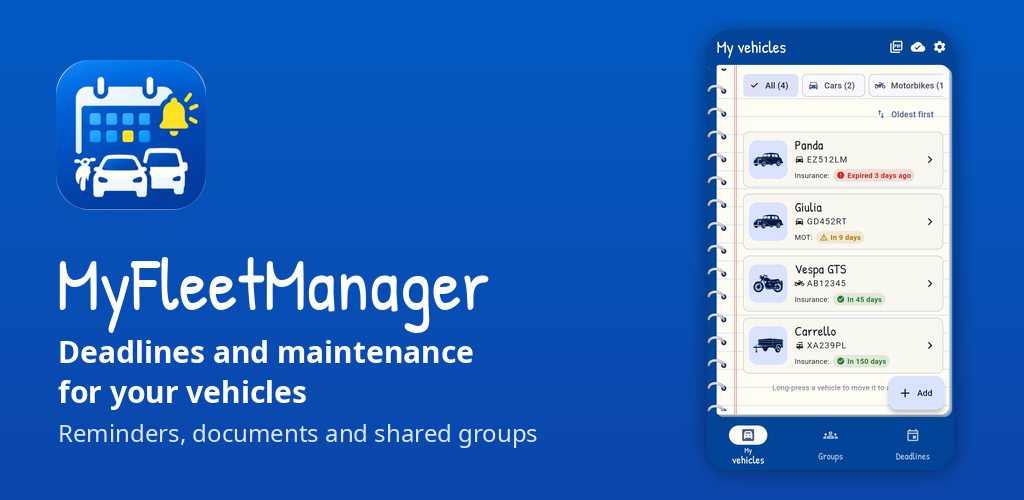
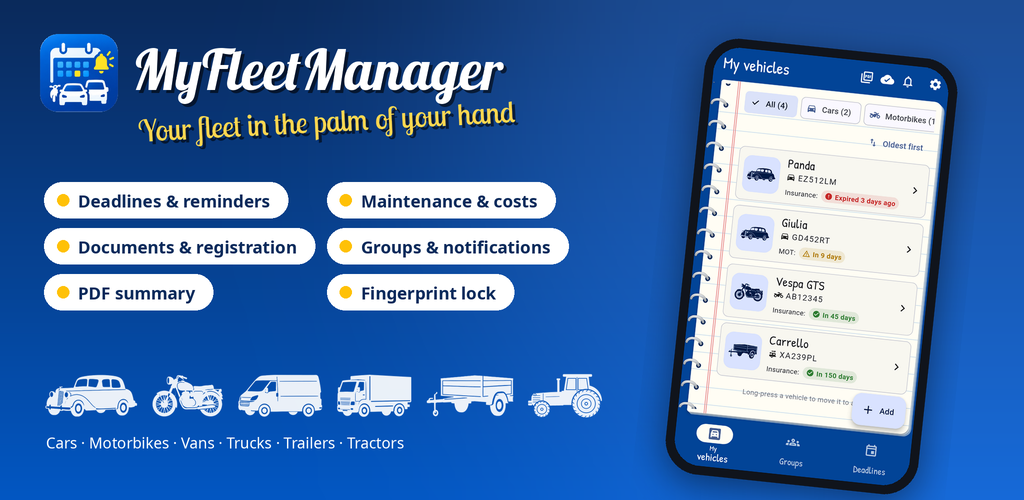
MyFleetManager 2.1.15 (+51): pubblicità AdMob nella versione gratuita, librerie Firebase senza SafetyNet, foto più leggere, selezione del testo, immagine in primo piano e scheda Store aggiornate, app-ads.txt
Claude-Session: https://claude.ai/code/session_01E5Mc5Y1Fn11ySByqYRH4WT

diff --git a/lib/version.dart b/lib/version.dart
@@ -1,1 +1,1 @@
-const String appVersion = '2.1.14';
+const String appVersion = '2.1.15';

diff --git a/tool/store/genera_feature.py b/tool/store/genera_feature.py
@@ -1,0 +1,148 @@
+import pathlib
+
+from PIL import Image, ImageDraw, ImageFilter, ImageFont
+
+ROOT = pathlib.Path(__file__).resolve().parents[2]
+FONTS = ROOT / "assets" / "fonts"
+OUT = ROOT / "tool" / "store"
+K = 2
+W, H = 1024 * K, 500 * K
+
+TEXT = {
+    "it": {
+        "slogan": "La tua flotta nel palmo della mano",
+        "features": [
+            "Scadenze e promemoria",
+            "Manutenzioni e costi",
+            "Documenti e libretto",
+            "Gruppi e notifiche",
+            "Riepilogo PDF",
+            "Blocco con impronta",
+        ],
+        "types": "Auto · Moto · Furgoni · Camion · Rimorchi · Agricoli",
+    },
+    "en": {
+        "slogan": "Your fleet in the palm of your hand",
+        "features": [
+            "Deadlines & reminders",
+            "Maintenance & costs",
+            "Documents & registration",
+            "Groups & notifications",
+            "PDF summary",
+            "Fingerprint lock",
+        ],
+        "types": "Cars · Motorbikes · Vans · Trucks · Trailers · Tractors",
+    },
+}
+
+
+def font(name, size):
+    return ImageFont.truetype(str(FONTS / name), size * K)
+
+
+def gradient():
+    top, bottom = (11, 42, 91), (2, 87, 195)
+    im = Image.new("RGB", (W, H))
+    d = ImageDraw.Draw(im)
+    for y in range(H):
+        t = y / H
+        d.line([(0, y), (W, y)], fill=tuple(int(a + (b - a) * t) for a, b in zip(top, bottom)))
+    glow = Image.new("L", (W, H), 0)
+    ImageDraw.Draw(glow).ellipse((W * 0.45, -H * 0.4, W * 1.3, H * 1.1), fill=90)
+    glow = glow.filter(ImageFilter.GaussianBlur(120 * K))
+    im.paste((60, 140, 255), (0, 0), glow)
+    return im
+
+
+def shadow_text(im, xy, text, f, fill, offset=3, angle=0):
+    layer = Image.new("RGBA", im.size, (0, 0, 0, 0))
+    d = ImageDraw.Draw(layer)
+    x, y = xy
+    d.text((x + offset * K, y + offset * K), text, font=f, fill=(0, 0, 0, 150))
+    d.text((x, y), text, font=f, fill=fill)
+    if angle:
+        layer = layer.rotate(angle, resample=Image.BICUBIC, center=(x, y + f.size // 2))
+    im.alpha_composite(layer)
+
+
+def rounded(im, radius):
+    mask = Image.new("L", im.size, 0)
+    ImageDraw.Draw(mask).rounded_rectangle((0, 0, im.size[0] - 1, im.size[1] - 1), radius, fill=255)
+    out = Image.new("RGBA", im.size, (0, 0, 0, 0))
+    out.paste(im, (0, 0), mask)
+    return out
+
+
+def phone(shot):
+    sw, sh = 236 * K, 420 * K
+    screen = Image.open(shot).convert("RGB").resize((sw, sh), Image.LANCZOS)
+    bezel = 9 * K
+    body = Image.new("RGBA", (sw + bezel * 2, sh + bezel * 2), (0, 0, 0, 0))
+    ImageDraw.Draw(body).rounded_rectangle((0, 0, body.size[0] - 1, body.size[1] - 1), 34 * K, fill=(16, 20, 28, 255))
+    body.alpha_composite(rounded(screen.convert("RGBA"), 26 * K), (bezel, bezel))
+    return body
+
+
+def vehicle(name, height):
+    v = Image.open(ROOT / "assets" / "vehicles" / f"{name}.png").convert("RGBA")
+    v = v.resize((int(v.width * height / v.height), height), Image.LANCZOS)
+    white = Image.new("RGBA", v.size, (255, 255, 255, 255))
+    white.putalpha(v.getchannel("A").point(lambda a: int(a * 0.92)))
+    return white
+
+
+def build(lang):
+    t = TEXT[lang]
+    im = gradient().convert("RGBA")
+    d = ImageDraw.Draw(im)
+
+    icon = Image.open(OUT / "icon_512.png").convert("RGBA").resize((78 * K, 78 * K), Image.LANCZOS)
+    im.alpha_composite(rounded(icon, 18 * K), (40 * K, 34 * K))
+    shadow_text(im, (132 * K, 34 * K), "MyFleetManager", font("Lobster-Regular.ttf", 56), (255, 255, 255, 255))
+    shadow_text(im, (138 * K, 112 * K), t["slogan"], font("LobsterTwo-Regular.ttf", 30), (255, 213, 79, 255), angle=3)
+
+    chip_font = font("NotoSans-Bold.ttf", 17)
+    x0, y0 = 44 * K, 182 * K
+    row_h = 46 * K
+    col_w = max(d.textlength(label, font=chip_font) for label in t["features"][0::2]) + 64 * K
+    for i, label in enumerate(t["features"]):
+        cx = x0 + (i % 2) * col_w
+        cy = y0 + (i // 2) * row_h
+        tw = d.textlength(label, font=chip_font)
+        d.rounded_rectangle((cx, cy, cx + tw + 52 * K, cy + 36 * K), 18 * K, fill=(255, 255, 255, 235))
+        d.ellipse((cx + 13 * K, cy + 12 * K, cx + 25 * K, cy + 24 * K), fill=(255, 193, 7, 255))
+        d.text((cx + 34 * K, cy + 7 * K), label, font=chip_font, fill=(11, 42, 91, 255))
+
+    names = ["auto", "moto", "furgone", "camion", "rimorchio", "agricolo"]
+    sprites = [vehicle(n, 50 * K) for n in names]
+    gap = 14 * K
+    total = sum(s.width for s in sprites) + gap * (len(sprites) - 1)
+    scale = min(1.0, (560 * K) / total)
+    if scale < 1.0:
+        sprites = [s.resize((int(s.width * scale), int(s.height * scale)), Image.LANCZOS) for s in sprites]
+        gap = int(gap * scale)
+    x = 44 * K
+    base = 418 * K
+    for s in sprites:
+        im.alpha_composite(s, (x, base - s.height))
+        x += s.width + gap
+    d.text((46 * K, 432 * K), t["types"], font=font("NotoSans-Regular.ttf", 15), fill=(255, 255, 255, 215))
+
+    p = phone(OUT.parent / "screenshots" / "out" / lang / "01_vehicles.png")
+    shade = Image.new("RGBA", (p.width + 60 * K, p.height + 60 * K), (0, 0, 0, 0))
+    ImageDraw.Draw(shade).rounded_rectangle((30 * K, 40 * K, p.width + 30 * K, p.height + 40 * K), 34 * K, fill=(0, 0, 0, 120))
+    shade = shade.filter(ImageFilter.GaussianBlur(18 * K))
+    tilt = Image.new("RGBA", shade.size, (0, 0, 0, 0))
+    tilt.alpha_composite(shade)
+    tilt.alpha_composite(p, (30 * K, 30 * K))
+    tilt = tilt.rotate(-6, resample=Image.BICUBIC, expand=True)
+    im.alpha_composite(tilt, (W - tilt.width - 30 * K, 2 * K))
+
+    out = im.convert("RGB").resize((1024, 500), Image.LANCZOS)
+    out.save(OUT / f"feature_{lang}.png", optimize=True)
+    print("Creata", OUT / f"feature_{lang}.png")
+
+
+if __name__ == "__main__":
+    for lang in TEXT:
+        build(lang)

diff --git a/BACKLOG.md b/BACKLOG.md
@@ -2,15 +2,19 @@
 
 Lavori rimandati, da fare prima di andare in produzione o in una versione successiva.
 
-## Prossima versione (2.1.15)
+## Prossima versione (2.1.16)
+- [ ] **Identificativi AdMob veri** in `lib/ads_config.dart` (app Android, app iOS, annuncio all'apertura Android e iOS) prima di pubblicare in produzione: la 2.1.15 usa ancora quelli di prova di Google («Test Ad», nessun ricavo).
+- [ ] **APK di GitHub senza le librerie arm32 e x86 inutilizzate** (circa 18 MB in meno).
+
+## Versione 2.1.15
 - [x] **Pubblicità AdMob nella versione gratuita** (preparata, con gli identificativi di prova di Google finché non arrivano quelli veri): annuncio all'apertura solo per utenti non Pro, mai nelle prime 24 ore, al massimo uno ogni 4 ore, mai sul web; consenso GDPR (UMP) al primo avvio e riga «Privacy della pubblicità» nelle Impostazioni; vantaggio «Nessuna pubblicità» nella pagina Pro; informativa privacy aggiornata (IT/EN). Android minimo 7.0 (richiesto dalla libreria AdMob).
 - [x] **Scheda dello Store aggiornata** (`tool/store/scheda_play_store.md`): descrizioni IT/EN con le funzioni nuove, note di rilascio, scelta degli 8 screenshot, dati per «Annunci», «ID pubblicità» e «Sicurezza dei dati».
-- [ ] **Identificativi AdMob veri** in `lib/ads_config.dart` (app Android, app iOS, annuncio all'apertura Android e iOS) prima di pubblicare la 2.1.15.
 - [x] **SafetyNet tolto** (avviso di Play Console «versione dell'SDK con una nota critica di play-services-safetynet»): arrivava dalla libreria App Check 0.3. Librerie Firebase aggiornate (core 4, auth 6, Firestore 6, messaging 16, App Check 0.4, che usa solo Play Integrity). Da riprovare: accesso, sincronizzazione dei gruppi, notifiche, App Check.
 - [x] **Foto dei veicoli caricate alla misura mostrata** (avviso «downsampling della bitmap»): miniature e foto nelle schede non vengono più decodificate a piena risoluzione.
 - [x] **Selezione del testo (secondo intervento)**: i campi su una riga, con testo più lungo della casella, scorrevano di lato e «rubavano» il gesto alla maniglia della selezione. I campi di testo libero del ricambio e dei dati tecnici ora vanno a capo invece di scorrere.
 - Edge-to-edge e ottimizzazione R8 (altri avvisi di Play Console): nel nostro codice non c'è nulla di deprecato; arrivano da Flutter e dalle librerie Google. Nessuna azione.
-- [ ] **APK di GitHub senza le librerie arm32 e x86 inutilizzate** (circa 18 MB in meno).
+- [x] **Immagine in primo piano** nuova (IT/EN), con i 6 tipi di veicolo, le funzioni principali e uno screenshot vero; script `tool/store/genera_feature.py`.
+- [x] **app-ads.txt** pubblicato sul sito Firebase (`/app-ads.txt`, ID editore pub-6901766595403947).
 
 ## Versione 2.1.14
 - [x] **Selezione del testo nel pannello del ricambio** (Manutenzione → ricambio, campi codice/costo): le maniglie della selezione saltavano o si fermavano perché il pannello si chiudeva trascinandolo in giù e «rubava» il gesto. Ora il pannello non si trascina più: si chiude toccando fuori, con OK o con indietro. Da verificare sul telefono.

diff --git a/tool/store/scheda_play_store.md b/tool/store/scheda_play_store.md
@@ -4,7 +4,7 @@ Aggiornata per la versione 2.1.15.
 
 File pronti:
 - `tool/store/icon_512.png` — icona 512×512
-- `tool/store/feature_it.png`, `tool/store/feature_en.png` — grafica in evidenza 1024×500
+- `tool/store/feature_it.png`, `tool/store/feature_en.png` — immagine in primo piano 1024×500, con i 6 tipi di veicolo e le funzioni principali; si rigenera con `python3 tool/store/genera_feature.py` (dopo gli screenshot)
 - screenshot telefono 1080×1920 in `tool/screenshots/out/it/` e `tool/screenshots/out/en/` (dati inventati)
 
 Screenshot da caricare, in questo ordine (8, il massimo che conviene):
